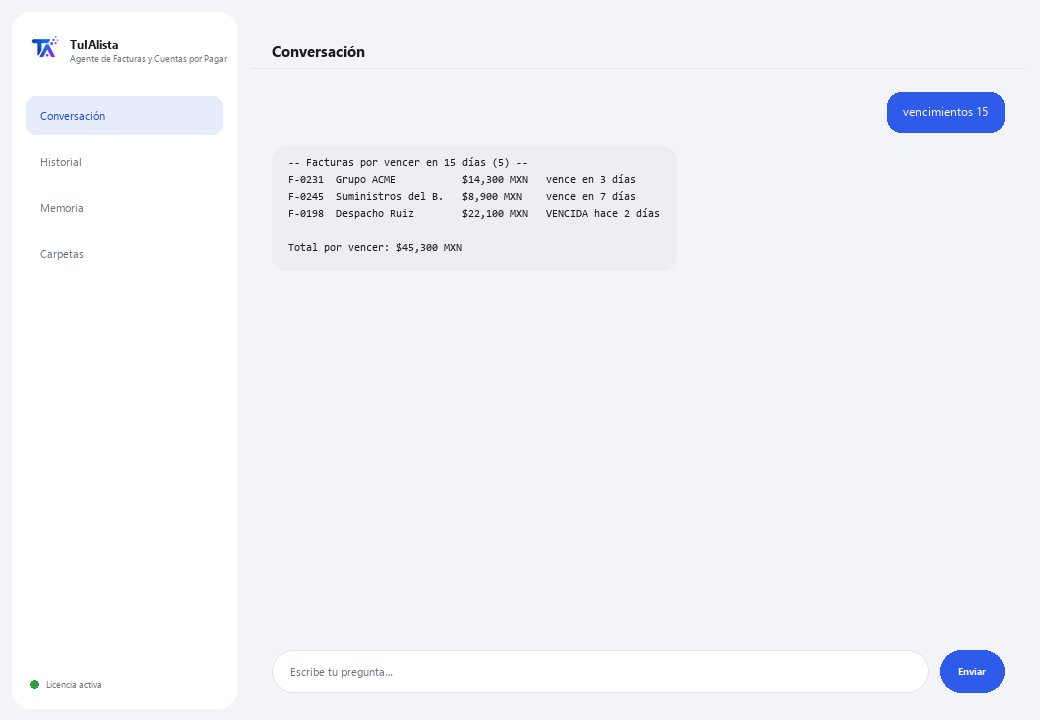
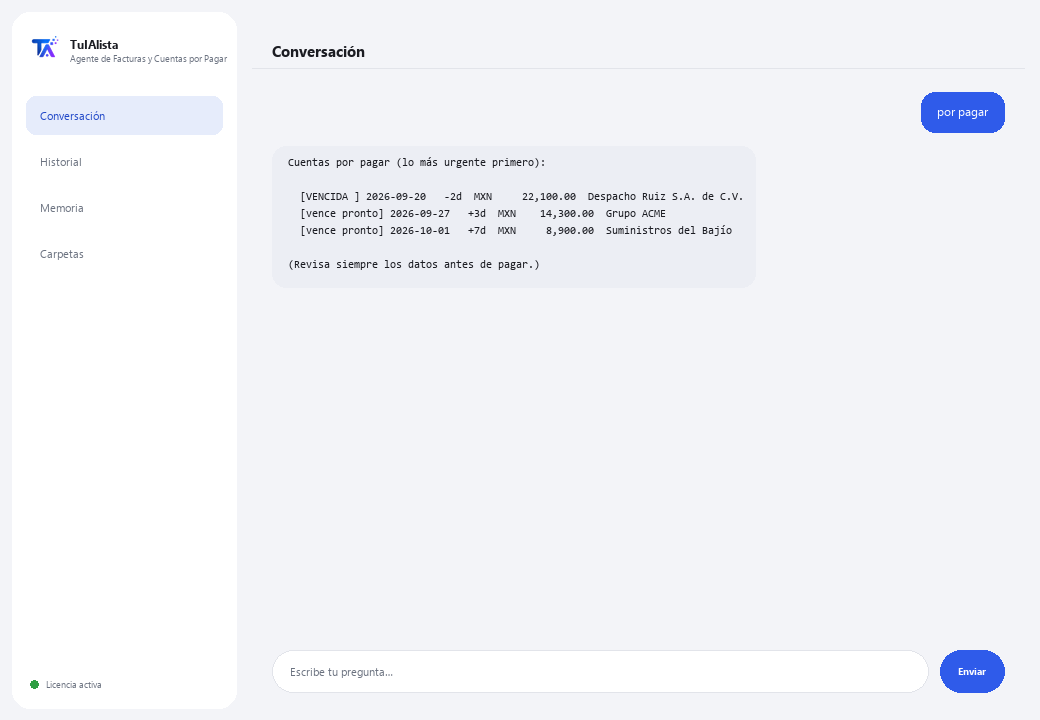
Corrige guías web tras auditoría: entidades HTML + contenido de Facturas
Auditoría con 3 revisiones en paralelo sobre las 5 páginas /guia/<agente>/
publicadas antes: (1) entidades HTML duplicadas en el atributo alt de
las capturas (&amp;ldquo; en vez de &ldquo;) en las 5 páginas; (2) el
contenido de Facturas describía comandos exactos de una versión vieja
del agente — el código real es un agente "que hace el trabajo" en
lenguaje natural (exporta/impuestos/por pagar/duplicados), solo lee
XML de CFDI/PDF/TXT. Reescrito y verificado contra facturas_agent.py.

Changed region(s): [[0.2769, 0.2139, 0.7077, 0.3667], [0.8308, 0.1222, 0.9538, 0.1833], [0.4615, 0.3667, 0.4923, 0.3972]]

diff --git a/guia/facturas/index.html b/guia/facturas/index.html
@@ -77,7 +77,7 @@
 <main>
   <div class="eyebrow">GU&Iacute;A DEL AGENTE</div>
   <h1>Agente de Facturas y Cuentas por Pagar</h1>
-  <p class="sub">Organiza tus facturas por pagar, te avisa de los vencimientos y detecta duplicados y anomalías antes de que te cuesten dinero.</p>
+  <p class="sub">Le dices qué necesitas en tus palabras y te arma el Excel de facturas, el resumen de impuestos y las cuentas por pagar — sin capturar nada a mano.</p>
   <div class="hero-row">
     <span class="price">$49 USD / mes</span>
     <a class="cta" href="/descargar/?agent=facturas"><i class="ti ti-download"></i> Descargar este agente</a>
@@ -85,16 +85,16 @@
 
   <div class="quick">
     <h3>&iquest;Qué resuelve y qué necesitas?</h3>
-    <p>Pagar dos veces la misma factura, pasarte de la fecha de pago o no notar un cargo atípico es más común de lo que parece. Este agente convierte tu carpeta de facturas en un tablero de control de cuentas por pagar.</p>
-    <ul><li><b>Necesitas:</b> tu clave de licencia (<font face='Courier'>TIA-XXXX-XXXX-XXXX-XXXX</font>) y la carpeta con tus facturas. Nada de Python ni conocimientos técnicos.</li><li><b>Primer resultado en menos de 5 minutos:</b> instalas, activas, eliges tu carpeta y corres <font face='Courier-Bold'>vencimientos</font> para ver qué pagar y cuándo.</li><li><b>Tus facturas nunca salen de tu computadora</b> — el análisis corre localmente.</li></ul>
-    <div class="callout cal-amber"><b>Aviso:</b> este agente es una herramienta de apoyo. Los datos se extraen por reglas de texto y pueden contener errores. <b>Verifica siempre los datos antes de ejecutar un pago real.</b></div>
+    <p>Capturar facturas a mano en Excel toma horas y es fácil pagar dos veces la misma o perder una fecha de vencimiento. Este agente lee tus XML de CFDI y PDF de facturas, y te arma el Excel de captura, el resumen de impuestos y las cuentas por pagar — le escribes lo que necesitas como le escribirías a una persona, no comandos exactos.</p>
+    <ul><li><b>Necesitas:</b> tu clave de licencia (<font face='Courier'>TIA-XXXX-XXXX-XXXX-XXXX</font>) y la carpeta con tus facturas (XML de CFDI y/o PDF). Nada de Python ni conocimientos técnicos.</li><li><b>Primer resultado en menos de 5 minutos:</b> instalas, activas, eliges tu carpeta y escribes <font face='Courier-Bold'>exporta</font> para que te arme el Excel completo.</li><li><b>Tus facturas nunca salen de tu computadora</b> — el análisis corre localmente.</li></ul>
+    <div class="callout cal-amber"><b>Aviso:</b> este agente es una herramienta de apoyo. Los datos se extraen del XML/PDF de forma automática y pueden contener errores en casos atípicos. <b>Verifica siempre los datos antes de ejecutar un pago real.</b></div>
     <div class="callout cal-amber"><b>&iquest;Tienes dudas?</b> Escr&iacute;benos a <code>soporte@tuialista.com</code> o entra a <a href="/soporte/"><code>tuialista.com/soporte</code></a> — normalmente respondemos el mismo d&iacute;a h&aacute;bil.</div>
   </div>
 
   <h2 class="sec"><span class="n">1</span> Qué hace este agente</h2>
-<p>Tú le señalas la carpeta con las facturas y él:</p>
-<ul><li>Las <b>indexa</b> todas (PDF, Word, Excel, CSV, XML, TXT) y extrae los datos clave: <b>folio, proveedor, RFC, fechas de emisión y vencimiento, subtotal, IVA, total y moneda.</b></li><li>Te avisa de los <b>pagos próximos a vencer</b> (y de los vencidos), ordenados por urgencia.</li><li>Detecta <b>facturas duplicadas</b> (mismo folio, o mismo proveedor + mismo total en fechas cercanas).</li><li>Detecta <b>anomalías</b>: montos atípicos, datos faltantes, fechas inválidas.</li><li>Agrupa los <b>totales por proveedor</b> para ver a quién le debes más.</li><li>Responde <b>preguntas libres</b> sobre tu cartera de facturas.</li></ul>
-<p>El resultado: pagas a tiempo, sin duplicar, y con la información ordenada.</p>
+<p>Tú le señalas la carpeta con tus facturas (XML de CFDI del SAT y/o PDF) y él:</p>
+<ul><li><b>Captura cada factura a un Excel ordenado</b> — lo que normalmente se hace a mano en horas: folio, proveedor, RFC, fechas, subtotal, IVA, retención, total y moneda.</li><li><b>Resume los impuestos del periodo</b>, sumando lo que cada factura declara por moneda (base, impuesto, retención, total).</li><li>Arma tus <b>cuentas por pagar</b> con alertas de qué está vencido y qué vence pronto.</li><li><b>Detecta facturas duplicadas.</b></li><li>Responde <b>cualquier pregunta o pedido</b> sobre tu cartera de facturas en tus propias palabras — no memorizas comandos.</li></ul>
+<p>El trabajo de captura y cálculo es <b>código local determinista</b> (no usa IA, no alucina): lee el XML de CFDI de forma exacta y cualquier factura PDF por lectura de texto. El resultado: pagas a tiempo, sin duplicar, con tu Excel de facturas listo sin capturarlo tú.</p>
 <h2 class="sec"><span class="n">2</span> Instalación (2 minutos)</h2>
 <p>Para Windows. No hace falta internet permanente ni subir nada a la nube.</p>
 <div class="stepline"><div class="num">1</div><div><b class="steptitle">Descárgalo e instálalo</b><p>Baja el instalador desde <font face='Courier'>tuialista.com/descargar</font> (agente Facturas) y ábrelo. Crea un acceso directo en tu escritorio con el logo — no requiere Python ni terminal.</p></div></div>
@@ -102,49 +102,47 @@
 <div class="stepline"><div class="num">3</div><div><b class="steptitle">Elige tu carpeta</b><p>Selecciona la carpeta con tus facturas y pulsa <b>Comenzar a usar el agente</b>. La próxima vez arranca directo — recuerda tu clave y tu carpeta.</p></div></div>
 <figure class="shot"><img src="../assets/mockups/facturas/activacion.png" alt="Así se ve la ventana de activación (con datos de ejemplo). Aparece la primera vez que abres el agente." loading="lazy"><figcaption>Así se ve la ventana de activación (con datos de ejemplo). Aparece la primera vez que abres el agente.</figcaption></figure>
 <h2 class="sec"><span class="n">3</span> Cómo usarlo</h2>
-<p>El agente abre una <b>ventana de chat</b>, como una app de mensajería — no es una pantalla negra de programador. Escribes tu comando o tu pregunta en el cuadro de texto de abajo, pulsas <b>Enviar</b> (o Enter), y la respuesta aparece como un mensaje, igual que en esta imagen real:</p>
-<figure class="shot"><img src="../assets/mockups/facturas/chat.png" alt="La conversación real: escribes &amp;ldquo;vencimientos 15&amp;rdquo; y el agente responde con las facturas por vencer (datos de ejemplo)." loading="lazy"><figcaption>La conversación real: escribes &ldquo;vencimientos 15&rdquo; y el agente responde con las facturas por vencer (datos de ejemplo).</figcaption></figure>
-<p>Los comandos siguientes son las palabras que puedes escribir en ese mismo cuadro de texto:</p>
-<div class="cmdcard"><code>&gt; vencimientos [días]</code><p>Facturas por vencer en los próximos N días (30 por defecto) y las <b>vencidas</b>, ordenadas por urgencia. Ej.: <font face='Courier'>vencimientos 15</font>.</p></div>
-<div class="cmdcard"><code>&gt; duplicados</code><p>Facturas posiblemente duplicadas: mismo folio, o mismo proveedor + mismo total con fechas cercanas (&le;7 días).</p></div>
-<div class="cmdcard"><code>&gt; anomalias</code><p>Montos atípicos (muy por encima del promedio de ese proveedor), datos faltantes críticos (sin total, sin proveedor, sin RFC, sin folio) y fechas inválidas (vencimiento antes de emisión).</p></div>
-<div class="cmdcard"><code>&gt; totales</code><p>Suma los totales por proveedor, de mayor a menor, con el total general.</p></div>
-<div class="cmdcard"><code>&gt; analizar &lt;archivo&gt;</code><p>Folio, proveedor, RFC, fechas, moneda, subtotal, IVA y total extraídos de una factura. Ej.: <font face='Courier'>analizar factura_marzo_acme.pdf</font>.</p></div>
-<div class="cmdcard"><code>&gt; ¿pregunta libre?</code><p>Escribe cualquier duda en lenguaje natural, ej.: <i>&iquest;cuánto le debo a ACME este mes?</i></p></div>
-<div class="cmdcard"><code>&gt; salir</code><p>Termina la sesión (también funciona <font face='Courier'>exit</font>).</p></div>
+<p>El agente abre una <b>ventana de chat</b>, como una app de mensajería — no es una pantalla negra de programador. <b>No memorizas comandos exactos:</b> le escribes lo que necesitas casi como se lo pedirías a una persona, pulsas <b>Enviar</b> (o Enter), y él hace el trabajo. Estas son las 4 cosas principales que sabe hacer, con ejemplos de cómo pedírselas:</p>
+<figure class="shot"><img src="../assets/mockups/facturas/chat.png" alt="La conversación real: le pides &ldquo;por pagar&rdquo; y el agente responde con tus cuentas por pagar ordenadas por urgencia (datos de ejemplo)." loading="lazy"><figcaption>La conversación real: le pides &ldquo;por pagar&rdquo; y el agente responde con tus cuentas por pagar ordenadas por urgencia (datos de ejemplo).</figcaption></figure>
+<div class="cmdcard"><code>&gt; exporta &nbsp;/&nbsp; genera el Excel &nbsp;/&nbsp; captúralas</code><p>Te arma un Excel con <b>todo</b>: captura de cada factura, resumen de impuestos y cuentas por pagar, listo para abrir.</p></div>
+<div class="cmdcard"><code>&gt; impuestos &nbsp;/&nbsp; cuánto de IVA</code><p>Resumen de impuestos del periodo: base, impuesto, retención y total, sumado por moneda.</p></div>
+<div class="cmdcard"><code>&gt; por pagar &nbsp;/&nbsp; qué vence &nbsp;/&nbsp; cuánto debo</code><p>Tus cuentas por pagar, lo más urgente primero: vencidas, por vencer pronto y vigentes, con proveedor y monto.</p></div>
+<div class="cmdcard"><code>&gt; duplicados &nbsp;/&nbsp; facturas repetidas</code><p>Detecta facturas que parecen estar cargadas dos veces (mismo folio/UUID, o mismo proveedor y total).</p></div>
+<div class="cmdcard"><code>&gt; cualquier otra pregunta</code><p>Ej.: <i>&ldquo;cuánto le debo a ACME&rdquo;</i>, <i>&ldquo;total por proveedor&rdquo;</i>, <i>&ldquo;compara este mes contra el anterior&rdquo;</i> — el agente entiende el pedido y arma la respuesta o el reporte.</p></div>
+<div class="callout cal-steel">No hace falta acertarle a una palabra exacta: &ldquo;factura por pagar&rdquo;, &ldquo;qué se vence esta semana&rdquo; o &ldquo;cuentas por pagar&rdquo; disparan lo mismo. Si tu frase no coincide con ninguna de las 4 acciones principales, el agente la interpreta con IA y de todas formas intenta ayudarte.</div>
 <h2 class="sec"><span class="n">4</span> Ejemplos de uso común</h2>
+<h4>Armar el Excel completo del mes</h4>
+<p><i>&ldquo;exporta&rdquo;</i> — obtienes un Excel con captura, impuestos y cuentas por pagar, listo para revisar o mandar a tu contador.</p>
 <h4>Revisión semanal de pagos</h4>
-<p><font face='Courier'>vencimientos 7</font> &nbsp;→&nbsp; <font face='Courier'>duplicados</font></p>
-<h4>Cierre de mes por proveedor</h4>
-<p><font face='Courier'>totales</font></p>
-<h4>Auditar antes de pagar</h4>
-<p><font face='Courier'>anomalias</font> &nbsp;→&nbsp; <font face='Courier'>analizar factura_sospechosa.pdf</font></p>
-<h4>Una consulta rápida</h4>
-<p><i>&iquest;qué facturas vencen esta semana?</i></p>
+<p><i>&ldquo;por pagar&rdquo;</i> &nbsp;→&nbsp; <i>&ldquo;duplicados&rdquo;</i></p>
+<h4>Cierre de mes de impuestos</h4>
+<p><i>&ldquo;impuestos del periodo&rdquo;</i></p>
+<h4>Una consulta puntual</h4>
+<p><i>&ldquo;cuánto le debo a ACME este mes?&rdquo;</i></p>
 <h2 class="sec"><span class="n">5</span> Preguntas frecuentes</h2>
-<details class="acc"><summary>&iquest;Mis facturas se suben a internet?</summary><div class="acc-body">No. Se indexan y analizan en tu computadora (ver Privacidad, sección 7).</div></details>
-<details class="acc"><summary>&iquest;Qué formatos acepta?</summary><div class="acc-body">PDF, Word (.docx), Excel (.xlsx), CSV, XML, texto (.txt) y Markdown (.md), incluso en subcarpetas.</div></details>
-<details class="acc"><summary>&iquest;Cómo sabe el proveedor, el total y las fechas?</summary><div class="acc-body">Los extrae automáticamente del texto (reconoce etiquetas en español e inglés: &ldquo;folio&rdquo;, &ldquo;total&rdquo;, &ldquo;fecha de vencimiento&rdquo;, &ldquo;RFC&rdquo;, &ldquo;invoice&rdquo;, &ldquo;due date&rdquo;...). Es muy útil, pero puede equivocarse con formatos poco comunes.</div></details>
-<details class="acc"><summary>&iquest;Detecta duplicados con seguridad?</summary><div class="acc-body">Marca <b>posibles</b> duplicados por folio o por proveedor+total+fechas cercanas. Confírmalos manualmente antes de rechazar o cancelar un pago.</div></details>
-<details class="acc"><summary>&iquest;Cómo detecta un monto atípico?</summary><div class="acc-body">Compara cada factura contra el promedio de ese proveedor (necesita al menos 3 facturas del mismo proveedor para calcularlo). Si se desvía mucho, la marca.</div></details>
-<details class="acc"><summary>&iquest;Ejecuta pagos?</summary><div class="acc-body">No. El agente <b>organiza y alerta</b>; no realiza ni programa pagos. Tú los ejecutas en tu banco o sistema.</div></details>
-<details class="acc"><summary>&iquest;En qué idioma responde?</summary><div class="acc-body">En el idioma en que le escribas. La extracción funciona con facturas en español e inglés.</div></details>
-<details class="acc"><summary>&iquest;Lee un PDF escaneado?</summary><div class="acc-body">Solo si tiene texto seleccionable. Un escaneo que es imagen pura no se lee de forma confiable.</div></details>
-<details class="acc"><summary>&iquest;Modifica mis facturas?</summary><div class="acc-body">No. El agente solo las <b>lee</b>.</div></details>
+<details class="acc"><summary>&iquest;Mis facturas se suben a internet?</summary><div class="acc-body">No. Se leen y procesan en tu computadora (ver Privacidad, sección 7).</div></details>
+<details class="acc"><summary>&iquest;Qué formatos acepta?</summary><div class="acc-body">XML de CFDI (SAT, México) y PDF de factura, además de .txt. El XML se lee de forma exacta (no es una suposición de texto); el PDF se lee por su contenido. No lee Word, Excel ni CSV como archivo de entrada — la salida sí es un Excel.</div></details>
+<details class="acc"><summary>&iquest;Necesito escribir el comando exacto?</summary><div class="acc-body">No. El agente reconoce la intención por palabras clave (por ejemplo &ldquo;exporta&rdquo;, &ldquo;export&rdquo;, &ldquo;excel&rdquo;, &ldquo;captura&rdquo; y &ldquo;genera&rdquo; disparan lo mismo). Puedes escribirlo como se te ocurra.</div></details>
+<details class="acc"><summary>&iquest;Detecta duplicados con seguridad?</summary><div class="acc-body">Marca <b>posibles</b> duplicados (mismo UUID/folio, o mismo proveedor y total). Confírmalos manualmente antes de rechazar o cancelar un pago.</div></details>
+<details class="acc"><summary>&iquest;Ejecuta pagos?</summary><div class="acc-body">No. El agente <b>organiza, captura y alerta</b>; no realiza ni programa pagos. Tú los ejecutas en tu banco o sistema.</div></details>
+<details class="acc"><summary>&iquest;En qué idioma responde?</summary><div class="acc-body">En el idioma en que le escribas.</div></details>
+<details class="acc"><summary>&iquest;Lee un PDF escaneado?</summary><div class="acc-body">Solo si tiene texto seleccionable. Un escaneo que es imagen pura no se lee de forma confiable — para esos casos, el XML de CFDI es la fuente más segura.</div></details>
+<details class="acc"><summary>&iquest;Modifica mis facturas originales?</summary><div class="acc-body">No. El agente solo las <b>lee</b>; el Excel que genera es un archivo nuevo, aparte de tus facturas.</div></details>
 <details class="acc"><summary>&iquest;Puedo cambiar la carpeta?</summary><div class="acc-body">Sí. Vuelve a abrir el agente y pulsa &ldquo;Elegir&hellip;&rdquo; para cambiarla (si no te la pide, borra <font face='Courier'>config.json</font> dentro de <font face='Courier'>%USERPROFILE%\.tuialista</font> para que te la vuelva a pedir).</div></details>
+<details class="acc"><summary>&iquest;Qué es el &ldquo;modo seguro&rdquo;?</summary><div class="acc-body">Por defecto el agente solo usa tareas ya probadas (exportar, impuestos, por pagar, duplicados, y algunos reportes deterministas) — nunca IA que escriba código sobre tus datos. Si escribes &ldquo;modo experto&rdquo;, además intenta pedidos nuevos con IA (aislada, no puede tocar tus archivos). Vuelves con &ldquo;modo seguro&rdquo;.</div></details>
 <h2 class="sec"><span class="n">6</span> Solución de problemas</h2>
-<details class="acc"><summary>No lee un .pdf, .docx o .xlsx</summary><div class="acc-body">Confirma que el PDF tenga texto real (no escaneado). Si el problema persiste, contacta a soporte.</div></details>
-<details class="acc"><summary>Muestra &ldquo;0 facturas indexadas&rdquo;</summary><div class="acc-body">La carpeta está vacía o la ruta es incorrecta. Revisa que hayas elegido la carpeta correcta al activar el agente.</div></details>
-<details class="acc"><summary>No detecta el total o el proveedor de una factura</summary><div class="acc-body">El formato puede ser poco común. Usa <font face='Courier'>analizar</font> para ver qué extrajo y verifica manualmente.</div></details>
+<details class="acc"><summary>No lee un archivo</summary><div class="acc-body">Confirma que sea .xml (CFDI), .pdf o .txt — otros formatos no se leen como entrada. Si es PDF, confirma que tenga texto real (no escaneado).</div></details>
+<details class="acc"><summary>Dice que no encontró facturas</summary><div class="acc-body">La carpeta está vacía o la ruta es incorrecta para este tipo de archivo. Revisa que hayas elegido la carpeta correcta al activar el agente, o usa &ldquo;Carpetas&hellip;&rdquo; para indicar dónde están.</div></details>
+<details class="acc"><summary>No detecta bien un dato de una factura</summary><div class="acc-body">El PDF puede tener un formato poco común. El XML de CFDI es más confiable que el PDF porque se lee de forma exacta, no por texto.</div></details>
 <details class="acc"><summary>Dice &ldquo;Licencia no válida&rdquo; o pide reconectar</summary><div class="acc-body">Revisa que la clave pegada sea correcta (sin espacios de más), confirma que tienes internet la primera vez que activas, y si estuviste más de 3 días sin conexión, reconéctate una vez para revalidar.</div></details>
-<details class="acc"><summary>&ldquo;No hay proveedores de IA configurados&rdquo;</summary><div class="acc-body">Solo las preguntas libres usan IA — si falta configurar el motor, contacta a soporte. <font face='Courier'>vencimientos</font>, <font face='Courier'>duplicados</font>, <font face='Courier'>anomalias</font>, <font face='Courier'>totales</font> y <font face='Courier'>analizar</font> siguen funcionando de forma local, sin IA.</div></details>
+<details class="acc"><summary>La IA no responde a una pregunta libre</summary><div class="acc-body">&ldquo;exporta&rdquo;, &ldquo;impuestos&rdquo;, &ldquo;por pagar&rdquo; y &ldquo;duplicados&rdquo; funcionan siempre, sin conexión a un motor de IA. Solo las preguntas fuera de esas 4 acciones dependen de la IA — si falla, reintenta en un momento o contacta a soporte.</div></details>
 <p><b>&iquest;Ninguna de estas soluciones resolvió tu problema?</b> Escríbenos directamente — con gusto lo revisamos contigo.</p>
 <div class="callout cal-amber"><b>&iquest;Tienes dudas?</b> Escr&iacute;benos a <code>soporte@tuialista.com</code> o entra a <a href="/soporte/"><code>tuialista.com/soporte</code></a> — normalmente respondemos el mismo d&iacute;a h&aacute;bil.</div>
 <h2 class="sec"><span class="n">7</span> Privacidad y confidencialidad</h2>
 <p><b>Tus facturas nunca salen de tu computadora.</b></p>
-<ul><li>El agente lee, indexa y analiza las facturas <b>localmente</b>, en tu propio equipo. No las sube a ningún servidor.</li><li>La extracción de datos, los vencimientos, los duplicados, las anomalías y los totales por proveedor se calculan <b>en tu máquina</b>.</li><li>Lo único que viaja por internet es: (1) una comprobación de que tu licencia está activa — que no incluye tus facturas —, y (2) al hacer una pregunta libre, se envía un fragmento de la información (datos de las facturas más relevantes) al motor de IA para redactar la respuesta.</li></ul>
-<div class="callout cal-steel">La confidencialidad de tu información financiera está garantizada por diseño: la indexación, los vencimientos, duplicados, anomalías y totales por proveedor son 100% locales. Solo las preguntas libres comparten un fragmento de datos con el proveedor de IA para poder responder.</div>
-<div class="callout cal-amber"><b>Recordatorio importante:</b> verifica los datos extraídos antes de ejecutar un pago real. El agente extrae folios, montos y fechas por reglas de texto; en facturas con formato inusual puede confundir un dato o no detectarlo. La detección de duplicados y anomalías es una alerta, no una certeza. Antes de pagar, cancelar o rechazar una factura, confirma los datos contra el documento original. El agente organiza y avisa; la decisión de pago es tuya.</div>
+<ul><li>El agente lee y procesa las facturas <b>localmente</b>, en tu propio equipo. No las sube a ningún servidor.</li><li>La captura al Excel, el resumen de impuestos, las cuentas por pagar y los duplicados se calculan <b>en tu máquina</b>, con código determinista (sin IA).</li><li>Lo único que viaja por internet es: (1) una comprobación de que tu licencia está activa — que no incluye tus facturas —, y (2) si le pides algo que no es una de las 4 acciones principales (una pregunta libre), se envía un fragmento de la información relevante al motor de IA para poder responder.</li></ul>
+<div class="callout cal-steel">La confidencialidad de tu información financiera está garantizada por diseño: exportar, impuestos, cuentas por pagar y duplicados son 100% locales y deterministas — no usan IA. Solo las preguntas libres fuera de esas 4 acciones comparten un fragmento de datos con el proveedor de IA para poder responder.</div>
+<div class="callout cal-amber"><b>Recordatorio importante:</b> verifica los datos extraídos antes de ejecutar un pago real. El XML de CFDI se lee de forma exacta, pero el PDF se lee por texto y en facturas con formato inusual puede confundir un dato. La detección de duplicados es una alerta, no una certeza. Antes de pagar, cancelar o rechazar una factura, confirma los datos contra el documento original. El agente organiza y avisa; la decisión de pago es tuya.</div>
 
 </main>
 

diff --git a/guia/inventario/index.html b/guia/inventario/index.html
@@ -103,7 +103,7 @@
 <figure class="shot"><img src="../assets/mockups/inventario/activacion.png" alt="Así se ve la ventana de activación (con datos de ejemplo). Aparece la primera vez que abres el agente." loading="lazy"><figcaption>Así se ve la ventana de activación (con datos de ejemplo). Aparece la primera vez que abres el agente.</figcaption></figure>
 <h2 class="sec"><span class="n">3</span> Cómo usarlo</h2>
 <p>El agente abre una <b>ventana de chat</b>, como una app de mensajería — no es una pantalla negra de programador. Escribes tu comando o tu pregunta en el cuadro de texto de abajo, pulsas <b>Enviar</b> (o Enter), y la respuesta aparece como un mensaje, igual que en esta imagen real:</p>
-<figure class="shot"><img src="../assets/mockups/inventario/chat.png" alt="La conversación real: escribes &amp;ldquo;bajo&amp;rdquo; y el agente responde con los productos por debajo del mínimo (datos de ejemplo)." loading="lazy"><figcaption>La conversación real: escribes &ldquo;bajo&rdquo; y el agente responde con los productos por debajo del mínimo (datos de ejemplo).</figcaption></figure>
+<figure class="shot"><img src="../assets/mockups/inventario/chat.png" alt="La conversación real: escribes &ldquo;bajo&rdquo; y el agente responde con los productos por debajo del mínimo (datos de ejemplo)." loading="lazy"><figcaption>La conversación real: escribes &ldquo;bajo&rdquo; y el agente responde con los productos por debajo del mínimo (datos de ejemplo).</figcaption></figure>
 <p>Los comandos siguientes son las palabras que puedes escribir en ese mismo cuadro de texto:</p>
 <div class="cmdcard"><code>&gt; bajo [umbral]</code><p>Productos con stock igual o menor a su mínimo (o al umbral que indiques), ordenados por urgencia (CRÍTICO / URGENTE / BAJO) y con días restantes estimados si hay rotación. Ej.: <font face='Courier'>bajo 5</font>.</p></div>
 <div class="cmdcard"><code>&gt; reordenar</code><p>Para cada producto bajo, sugiere cuánto pedir (según rotación para ~30 días, o un valor por defecto) y estima el costo.</p></div>

diff --git a/guia/nominas/index.html b/guia/nominas/index.html
@@ -103,7 +103,7 @@
 <figure class="shot"><img src="../assets/mockups/nominas/activacion.png" alt="Así se ve la ventana de activación (con datos de ejemplo). Aparece la primera vez que abres el agente." loading="lazy"><figcaption>Así se ve la ventana de activación (con datos de ejemplo). Aparece la primera vez que abres el agente.</figcaption></figure>
 <h2 class="sec"><span class="n">3</span> Cómo usarlo</h2>
 <p>El agente abre una <b>ventana de chat</b>, como una app de mensajería — no es una pantalla negra de programador. Escribes tu comando o tu pregunta en el cuadro de texto de abajo, pulsas <b>Enviar</b> (o Enter), y la respuesta aparece como un mensaje, igual que en esta imagen real:</p>
-<figure class="shot"><img src="../assets/mockups/nominas/chat.png" alt="La conversación real: escribes &amp;ldquo;vacaciones&amp;rdquo; y el agente responde con el balance de cada empleado (datos de ejemplo)." loading="lazy"><figcaption>La conversación real: escribes &ldquo;vacaciones&rdquo; y el agente responde con el balance de cada empleado (datos de ejemplo).</figcaption></figure>
+<figure class="shot"><img src="../assets/mockups/nominas/chat.png" alt="La conversación real: escribes &ldquo;vacaciones&rdquo; y el agente responde con el balance de cada empleado (datos de ejemplo)." loading="lazy"><figcaption>La conversación real: escribes &ldquo;vacaciones&rdquo; y el agente responde con el balance de cada empleado (datos de ejemplo).</figcaption></figure>
 <p>Los comandos siguientes son las palabras que puedes escribir en ese mismo cuadro de texto:</p>
 <div class="cmdcard"><code>&gt; vacaciones</code><p>Por empleado: su antigüedad, los días de vacaciones que le corresponden (tabla de la LFT con la reforma 2023), los tomados y los pendientes.</p></div>
 <div class="cmdcard"><code>&gt; fechas [días]</code><p>Eventos de RH de los próximos N días (30 por defecto): fin de contratos y aniversarios laborales, ordenados por urgencia. Ej.: <font face='Courier'>fechas 45</font>.</p></div>

diff --git a/guia/fiscal/index.html b/guia/fiscal/index.html
@@ -103,7 +103,7 @@
 <figure class="shot"><img src="../assets/mockups/fiscal/activacion.png" alt="Así se ve la ventana de activación (con datos de ejemplo). Aparece la primera vez que abres el agente." loading="lazy"><figcaption>Así se ve la ventana de activación (con datos de ejemplo). Aparece la primera vez que abres el agente.</figcaption></figure>
 <h2 class="sec"><span class="n">3</span> Cómo usarlo</h2>
 <p>El agente abre una <b>ventana de chat</b>, como una app de mensajería — no es una pantalla negra de programador. Escribes tu comando o tu pregunta en el cuadro de texto de abajo, pulsas <b>Enviar</b> (o Enter), y la respuesta aparece como un mensaje, igual que en esta imagen real:</p>
-<figure class="shot"><img src="../assets/mockups/fiscal/chat.png" alt="La conversación real: escribes &amp;ldquo;calendario&amp;rdquo; y el agente responde con tus obligaciones del año (datos de ejemplo)." loading="lazy"><figcaption>La conversación real: escribes &ldquo;calendario&rdquo; y el agente responde con tus obligaciones del año (datos de ejemplo).</figcaption></figure>
+<figure class="shot"><img src="../assets/mockups/fiscal/chat.png" alt="La conversación real: escribes &ldquo;calendario&rdquo; y el agente responde con tus obligaciones del año (datos de ejemplo)." loading="lazy"><figcaption>La conversación real: escribes &ldquo;calendario&rdquo; y el agente responde con tus obligaciones del año (datos de ejemplo).</figcaption></figure>
 <p>Los comandos siguientes son las palabras que puedes escribir en ese mismo cuadro de texto:</p>
 <div class="cmdcard"><code>&gt; calendario</code><p>Tus obligaciones del año: pagos provisionales de ISR, IVA mensual, DIOT y declaración anual, con fechas límite típicas según tu régimen.</p></div>
 <div class="cmdcard"><code>&gt; obligaciones [días]</code><p>Lo que vence pronto — por defecto los próximos 30 días, incluidas las recién vencidas, ordenadas por urgencia. Ej.: <font face='Courier'>obligaciones 15</font>.</p></div>

diff --git a/guia/garantias/index.html b/guia/garantias/index.html
@@ -103,7 +103,7 @@
 <figure class="shot"><img src="../assets/mockups/garantias/activacion.png" alt="Así se ve la ventana de activación (con datos de ejemplo). Aparece la primera vez que abres el agente." loading="lazy"><figcaption>Así se ve la ventana de activación (con datos de ejemplo). Aparece la primera vez que abres el agente.</figcaption></figure>
 <h2 class="sec"><span class="n">3</span> Cómo usarlo</h2>
 <p>El agente abre una <b>ventana de chat</b>, como una app de mensajería — no es una pantalla negra de programador. Escribes tu comando o tu pregunta en el cuadro de texto de abajo, pulsas <b>Enviar</b> (o Enter), y la respuesta aparece como un mensaje, igual que en esta imagen real:</p>
-<figure class="shot"><img src="../assets/mockups/garantias/chat.png" alt="La conversación real: escribes &amp;ldquo;estado&amp;rdquo; y el agente responde con el estatus de tus garantías (datos de ejemplo)." loading="lazy"><figcaption>La conversación real: escribes &ldquo;estado&rdquo; y el agente responde con el estatus de tus garantías (datos de ejemplo).</figcaption></figure>
+<figure class="shot"><img src="../assets/mockups/garantias/chat.png" alt="La conversación real: escribes &ldquo;estado&rdquo; y el agente responde con el estatus de tus garantías (datos de ejemplo)." loading="lazy"><figcaption>La conversación real: escribes &ldquo;estado&rdquo; y el agente responde con el estatus de tus garantías (datos de ejemplo).</figcaption></figure>
 <p>Los comandos siguientes son las palabras que puedes escribir en ese mismo cuadro de texto:</p>
 <div class="cmdcard"><code>&gt; estado</code><p>Todas tus garantías: VIGENTE, POR_VENCER, VENCIDA o SIN_FECHA, con los días restantes.</p></div>
 <div class="cmdcard"><code>&gt; porvencer [días]</code><p>Garantías que vencen en los próximos N días (30 por defecto), para reclamar a tiempo. Ej.: <font face='Courier'>porvencer 60</font>.</p></div>
